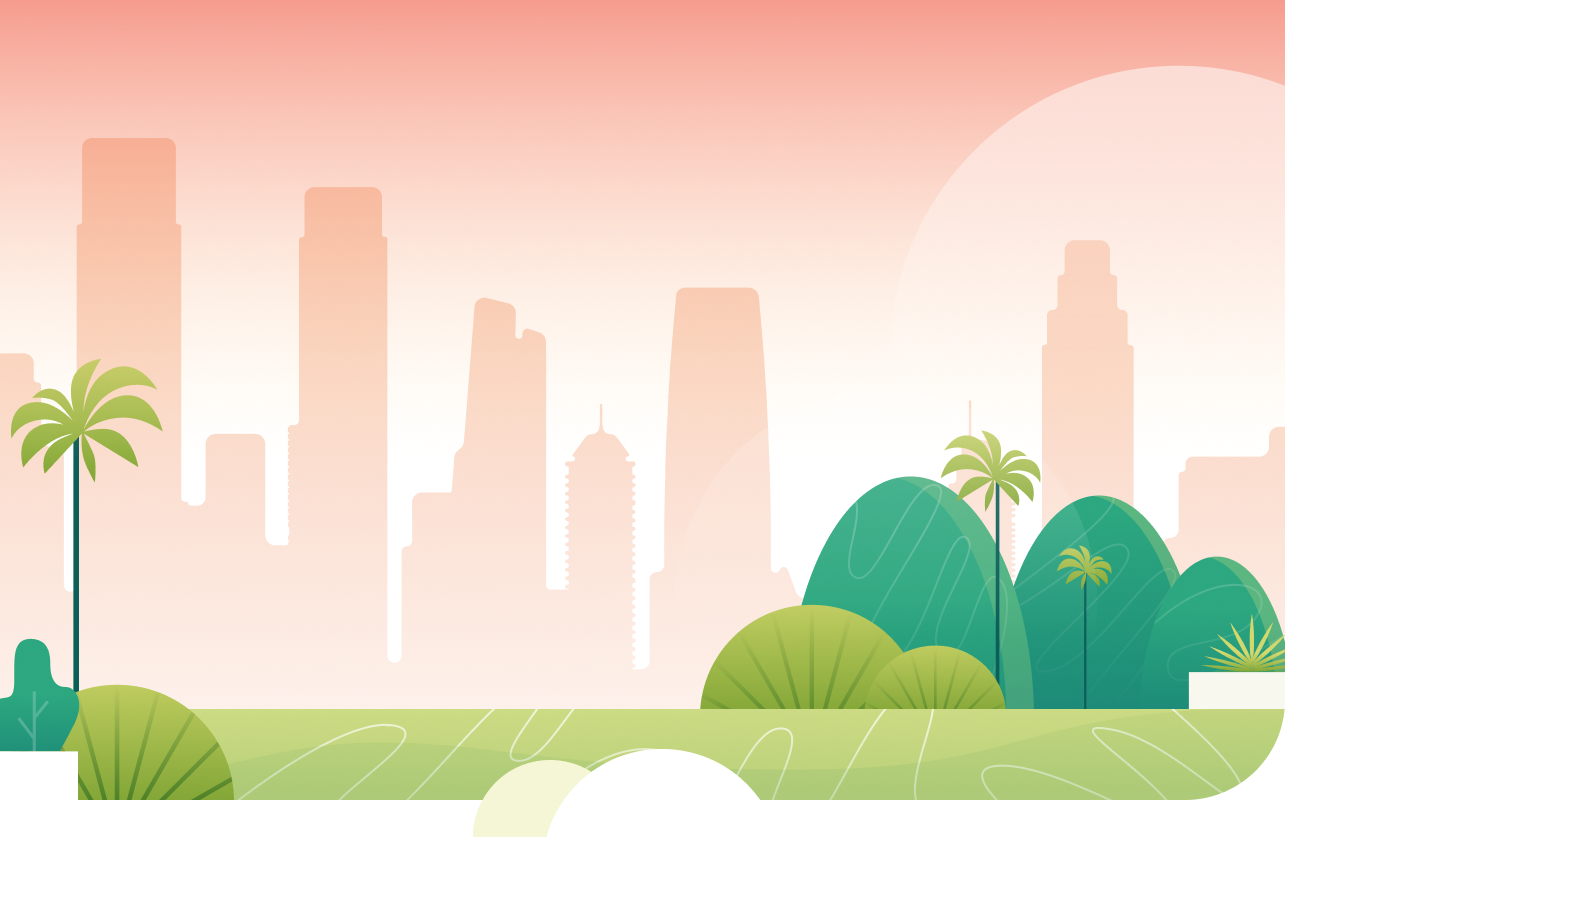
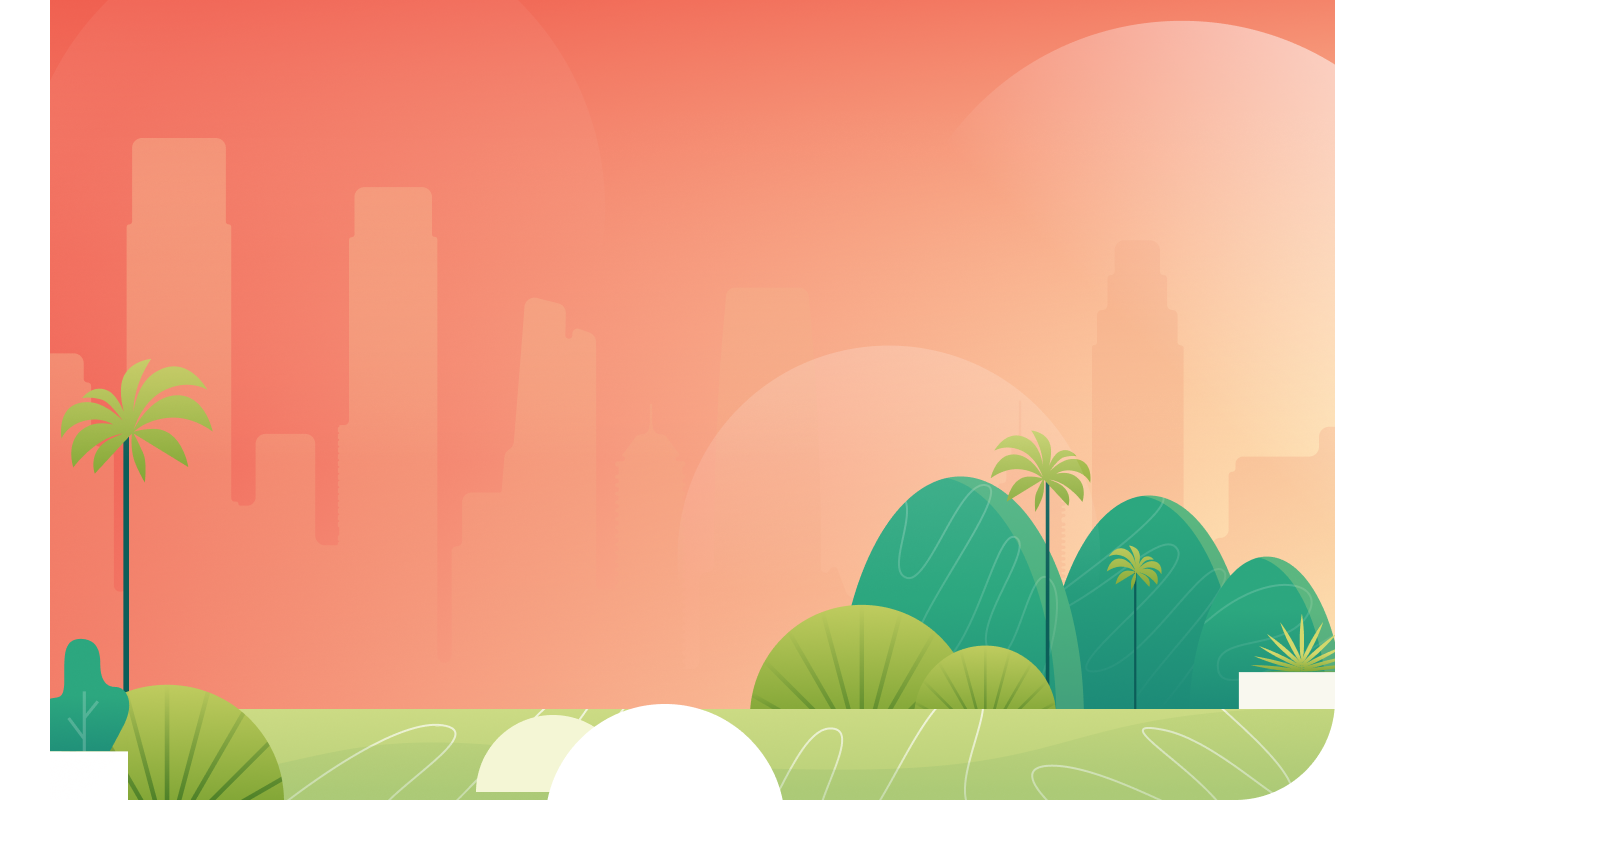
changed header

diff --git a/index.html b/index.html
@@ -1,66 +1,57 @@
 <!DOCTYPE html>
 <html lang="en">
-  <head>
-    <meta charset="UTF-8" />
-    <meta http-equiv="X-UA-Compatible" content="IE=edge" />
-    <meta name="viewport" content="width=device-width, initial-scale=1.0" />
-    <link rel="stylesheet" href="./css/style.css" />
-    <title>Traffico</title>
-  </head>
 
-  <body>
-    <header class="header">
-      <div class="menu">
-        <img
-          class="logo"
-          src="./public/images/logo.png"
-          alt="Logotyp trafico"
-        />
-        <nav class="nav">
-          <ul class="header__menu">
-            <li class="menu__item text-menu__bold">ABOUT</li>
-            <li class="menu__item text-menu__bold">HOW TO</li>
-            <li class="menu__item text-menu__bold">FAQS</li>
-          </ul>
-          <button class="contact btn">CONTACT US</button>
-        </nav>
-        <img
-          class="background__image"
-          src="./public/images/header background.png"
-          alt="tło"
-        />
-        <img class="truck" src="./public/images/mobel.png" alt="tło" />
-        <img
-          class="img__people"
-          src="./public/images/header people.png"
-          alt="tło"
-        />
-      </div>
-      <div class="header__cta">
-        <h1 class="paragraph text-xl">
-          Your awesome <br />traffic permit <br />consultant.
-        </h1>
-        <button class="cta btn">GET STARTED</button>
-      </div>
-    </header>
-    <main class="main">
-     <section class="post">
-      <img class="post__img" src="./public/images/Illustration.png" alt="" >
+<head>
+  <meta charset="UTF-8" />
+  <meta http-equiv="X-UA-Compatible" content="IE=edge" />
+  <meta name="viewport" content="width=device-width, initial-scale=1.0" />
+  <link rel="stylesheet" href="./css/style.css" />
+  <title>Traffico</title>
+</head>
+
+<body>
+  <header class="header">
+    <div class="menu">
+      <img class="logo" src="./public/images/logo.png" alt="Logotyp trafico" />
+      <nav class="nav">
+        <ul class="header__menu">
+          <li class="menu__item text-menu__bold">ABOUT</li>
+          <li class="menu__item text-menu__bold">HOW TO</li>
+          <li class="menu__item text-menu__bold">FAQS</li>
+        </ul>
+        <button class="contact btn">CONTACT US</button>
+      </nav>
+      <img class="background__image" src="./public/images/header background.png" alt="tło" />
+      <img class="truck" src="./public/images/mobel.png" alt="tło" />
+      <img class="img__people" src="./public/images/header people.png" alt="tło" />
+    </div>
+    <div class="header__cta">
+      <h1 class="paragraph text-xl">
+        Your awesome <br />traffic permit <br />consultant.
+      </h1>
+      <button class="cta btn">GET STARTED</button>
+    </div>
+  </header>
+  <main class="main">
+    <section class="post">
+      <img class="post__img" src="./public/images/Illustration.png" alt="">
       <div class="post__info">
         <p class="post__title text-l">ABOUT US</p>
-        <p class="post__text text-m-light-200">The occupational traffic permit is one of the most important things in the company when carrying out freight transport.  In fact, it is a prerequisite for doing business traffic at all. </p>
+        <p class="post__text text-m-light-200">The occupational traffic permit is one of the most important things in
+          the company when carrying out freight transport. In fact, it is a prerequisite for doing business traffic at
+          all. </p>
         <div class="footer__info-box--blue info-box--blue">
           <hr class="info-box__line--blue hr" />
           <p class="text-m-bold text-left">
-            How do you do when you need to obtain 
-a commercial traffic permit for freight transport to your business?
+            How do you do when you need to obtain
+            a commercial traffic permit for freight transport to your business?
           </p>
         </div>
       </div>
-     </section>
-    </main>
-    <footer class="footer">
-      <!-- <div class="footer__wrapper">
+    </section>
+  </main>
+  <footer class="footer">
+    <!-- <div class="footer__wrapper">
         <div class="footer__content">
           <figure>
             <img src="./public/images/mobel.png alt="photo of a car">
@@ -109,6 +100,7 @@ a commercial traffic permit for freight transport to your business?
           </section>
         </div>
       </div> -->
-    </footer>
-  </body>
+  </footer>
+</body>
+
 </html>

diff --git a/sass/sections/_header.scss b/sass/sections/_header.scss
@@ -4,7 +4,6 @@
     flex-direction: column;
     position: relative;
     padding: 1rem;
-    background: linear-gradient(297.17deg, #FFEDBA 6.67%, #EE4D47 91.82%);
     background-repeat: no-repeat;
 
     .menu {
@@ -39,7 +38,6 @@
             z-index: 2;
 
             .header__menu {
-
                 display: flex;
                 align-items: center;
 
@@ -94,16 +92,18 @@
         align-items: flex-start;
 
         .menu {
-            padding-left: 7rem;
+            padding-left: 5rem;
 
             .background__image {
                 max-width: 100%;
                 display: block;
                 position: absolute;
+                left: -5.5rem;
             }
 
             .nav {
                 margin: 0 rem;
+                padding-left: 2rem;
 
                 .contact {
                     display: inline;
@@ -111,7 +111,7 @@
 
                 .header__menu {
                     .menu__item {
-                        margin: 1rem 3.5rem;
+                        margin: 1rem 2rem;
                     }
                 }
             }
@@ -119,7 +119,7 @@
 
         .header__cta {
             align-items: flex-start;
-            padding-left: 7rem;
+            padding-left: 5rem;
 
             .paragraph {
                 text-align: left;
@@ -133,10 +133,13 @@
         height: 60rem;
 
         .menu {
-            padding-left: 12.7rem;
+            padding-left: 4.5rem;
 
             .nav {
-                padding: 0 15rem;
+
+                .menu__item {
+                    padding: 1rem 3rem;
+                }
 
                 .contact {
                     margin-left: 5rem;
@@ -145,8 +148,8 @@
         }
 
         .header__cta {
-            padding-left: 12.7rem;
-            padding-top: 7rem;
+            padding-left: 7.5rem;
+            padding-top: 3rem;
         }
     }
 }
@@ -159,11 +162,9 @@
             padding-left: 15.7rem;
 
             .nav {
-                padding: 0 0 0 27.2rem;
-
                 .header__menu {
                     .menu__item {
-                        margin: 0 5rem;
+                        margin: 0 3rem;
                     }
                 }
             }
@@ -178,8 +179,19 @@
 
 @media (min-width: 1400px) {
     .header {
+        margin-bottom: 50rem;
+
         .menu {
             padding-left: 20.7rem;
+
+            .nav {
+                .header__menu {
+                    .menu__item {
+                        margin: 0 5rem;
+                    }
+                }
+            }
+
 
             .truck {
                 display: inline;

diff --git a/css/style.css b/css/style.css
@@ -267,6 +267,7 @@ ul {
   background-color: #EE4D47;
   color: #fff;
   border-radius: 0.5rem;
+  border: 0px;
   letter-spacing: 0.05px;
 }
 
@@ -332,7 +333,6 @@ ul {
   flex-direction: column;
   position: relative;
   padding: 1rem;
-  background: linear-gradient(297.17deg, #FFEDBA 6.67%, #EE4D47 91.82%);
   background-repeat: no-repeat;
 }
 .header .menu {
@@ -406,25 +406,27 @@ ul {
     align-items: flex-start;
   }
   .header .menu {
-    padding-left: 7rem;
+    padding-left: 5rem;
   }
   .header .menu .background__image {
     max-width: 100%;
     display: block;
     position: absolute;
+    left: -5.5rem;
   }
   .header .menu .nav {
     margin: 0 rem;
+    padding-left: 2rem;
   }
   .header .menu .nav .contact {
     display: inline;
   }
   .header .menu .nav .header__menu .menu__item {
-    margin: 1rem 3.5rem;
+    margin: 1rem 2rem;
   }
   .header .header__cta {
     align-items: flex-start;
-    padding-left: 7rem;
+    padding-left: 5rem;
   }
   .header .header__cta .paragraph {
     text-align: left;
@@ -435,17 +437,17 @@ ul {
     height: 60rem;
   }
   .header .menu {
-    padding-left: 12.7rem;
+    padding-left: 4.5rem;
   }
-  .header .menu .nav {
-    padding: 0 15rem;
+  .header .menu .nav .menu__item {
+    padding: 1rem 3rem;
   }
   .header .menu .nav .contact {
     margin-left: 5rem;
   }
   .header .header__cta {
-    padding-left: 12.7rem;
-    padding-top: 7rem;
+    padding-left: 7.5rem;
+    padding-top: 3rem;
   }
 }
 @media (min-width: 1280px) {
@@ -455,11 +457,8 @@ ul {
   .header .menu {
     padding-left: 15.7rem;
   }
-  .header .menu .nav {
-    padding: 0 0 0 27.2rem;
-  }
   .header .menu .nav .header__menu .menu__item {
-    margin: 0 5rem;
+    margin: 0 3rem;
   }
   .header .header__cta {
     padding-left: 15.7rem;
@@ -467,8 +466,14 @@ ul {
   }
 }
 @media (min-width: 1400px) {
+  .header {
+    margin-bottom: 50rem;
+  }
   .header .menu {
     padding-left: 20.7rem;
+  }
+  .header .menu .nav .header__menu .menu__item {
+    margin: 0 5rem;
   }
   .header .menu .truck {
     display: inline;
@@ -534,8 +539,7 @@ ul {
   flex-direction: column;
 }
 .post .post__img {
-  max-width: 100%;
-  height: auto;
+  max-width: 20rem;
 }
 .post .post__info {
   display: flex;

diff --git a/sass/sections/_post.scss b/sass/sections/_post.scss
@@ -6,8 +6,7 @@
     flex-direction: column;
 
     .post__img {
-        max-width: 100%;
-        height: auto;
+        max-width: 20rem;
     }
 
     .post__info {

diff --git a/sass/components/_buttons.scss b/sass/components/_buttons.scss
@@ -11,5 +11,6 @@
     background-color: $color-red-100;
     color: $color-white;
     border-radius: 0.5rem;
+    border: 0px;
     letter-spacing: 0.05px;
 }
